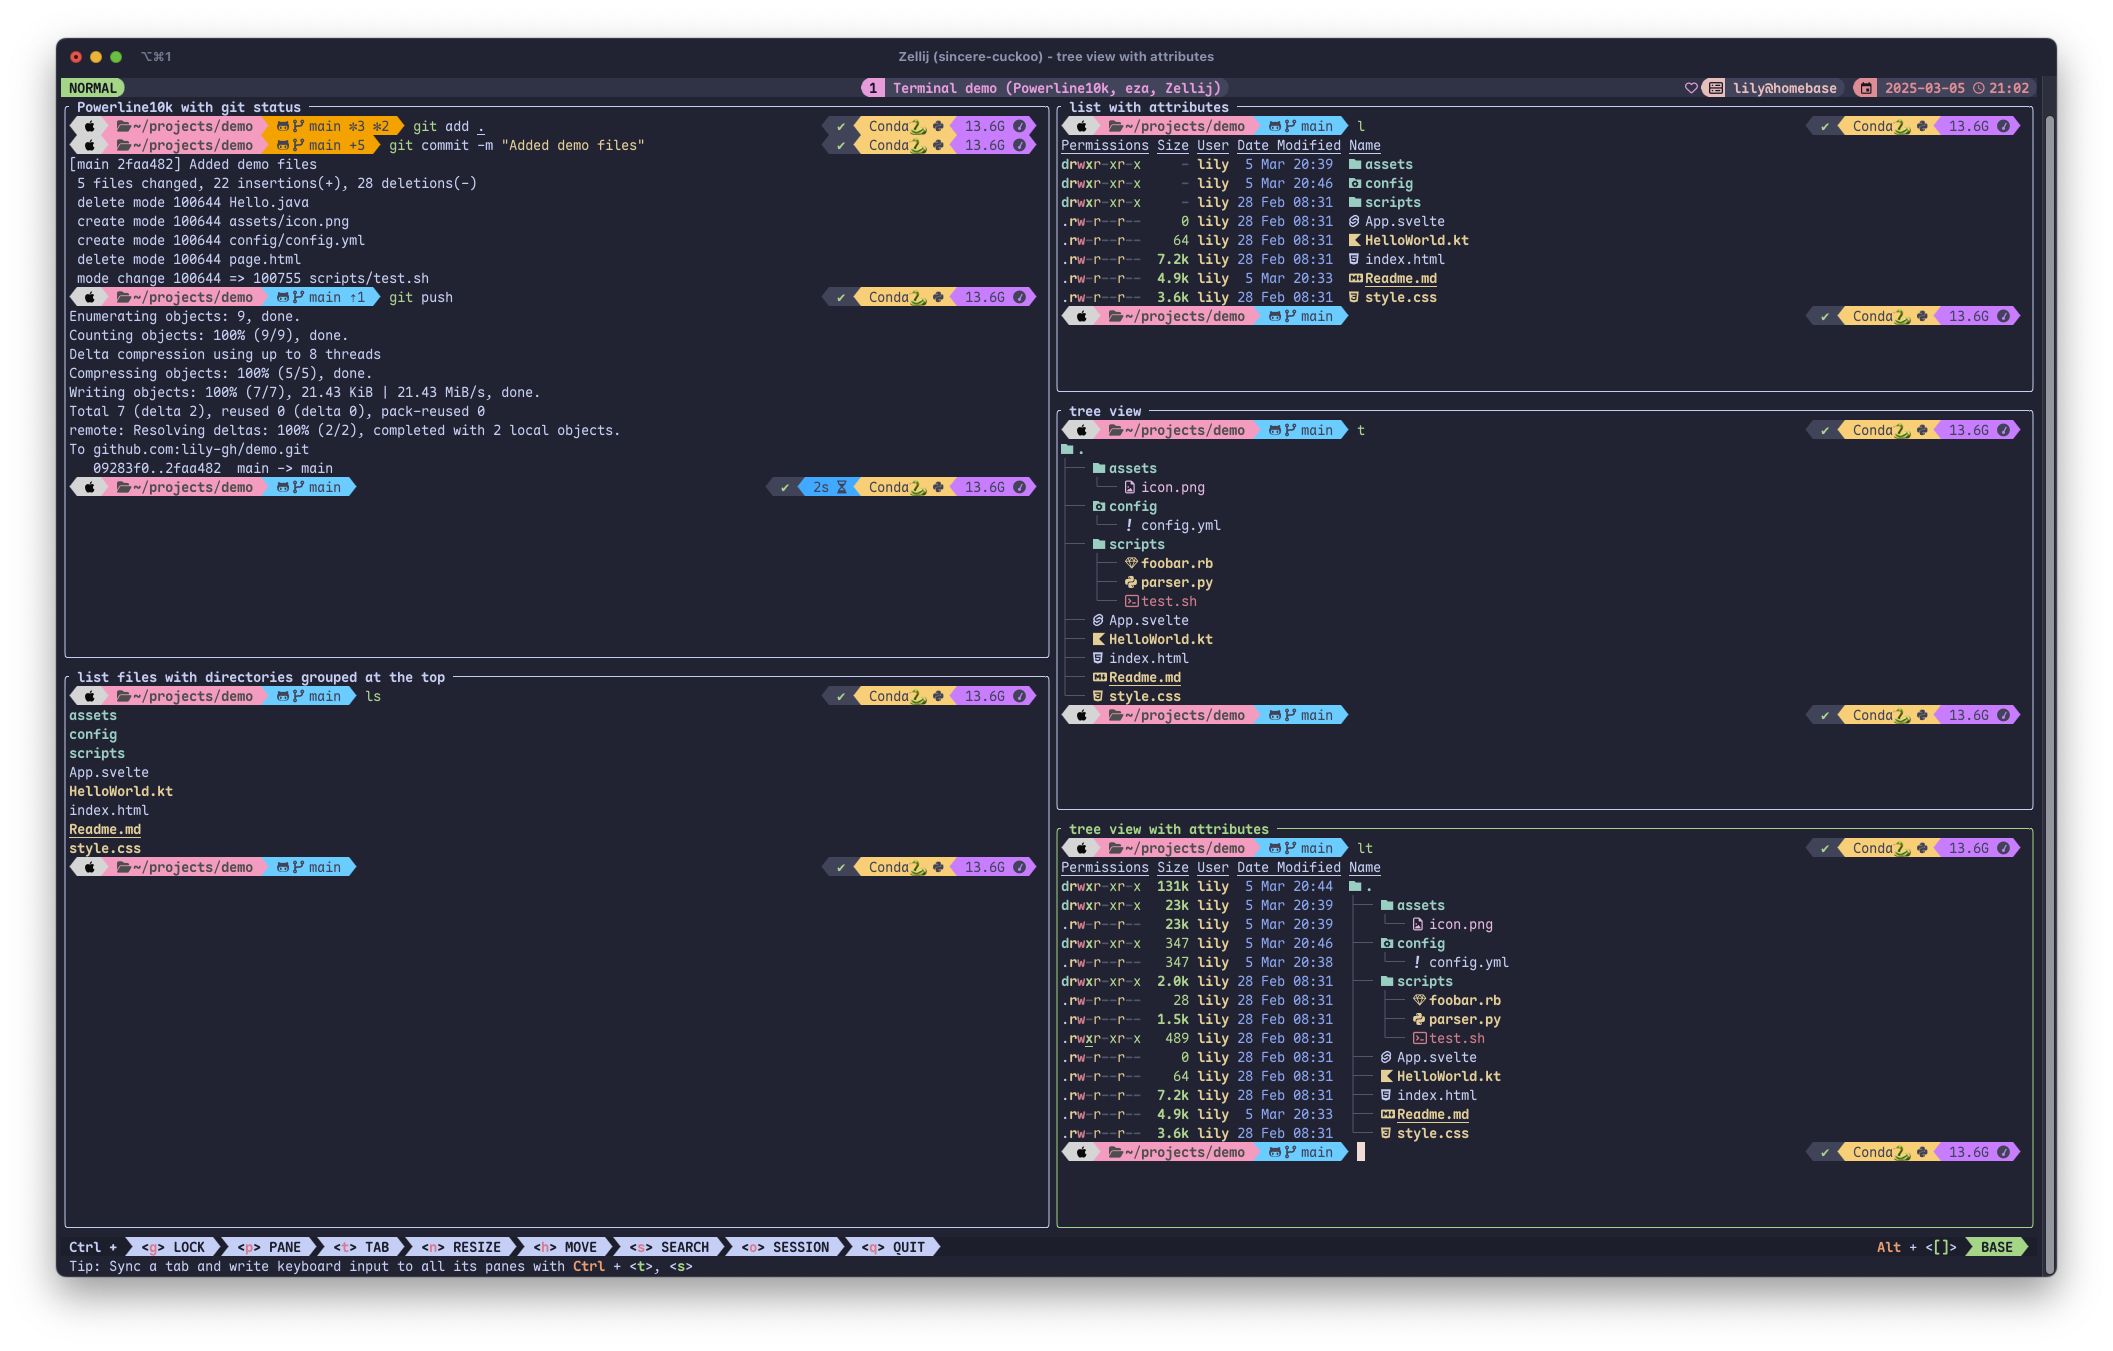
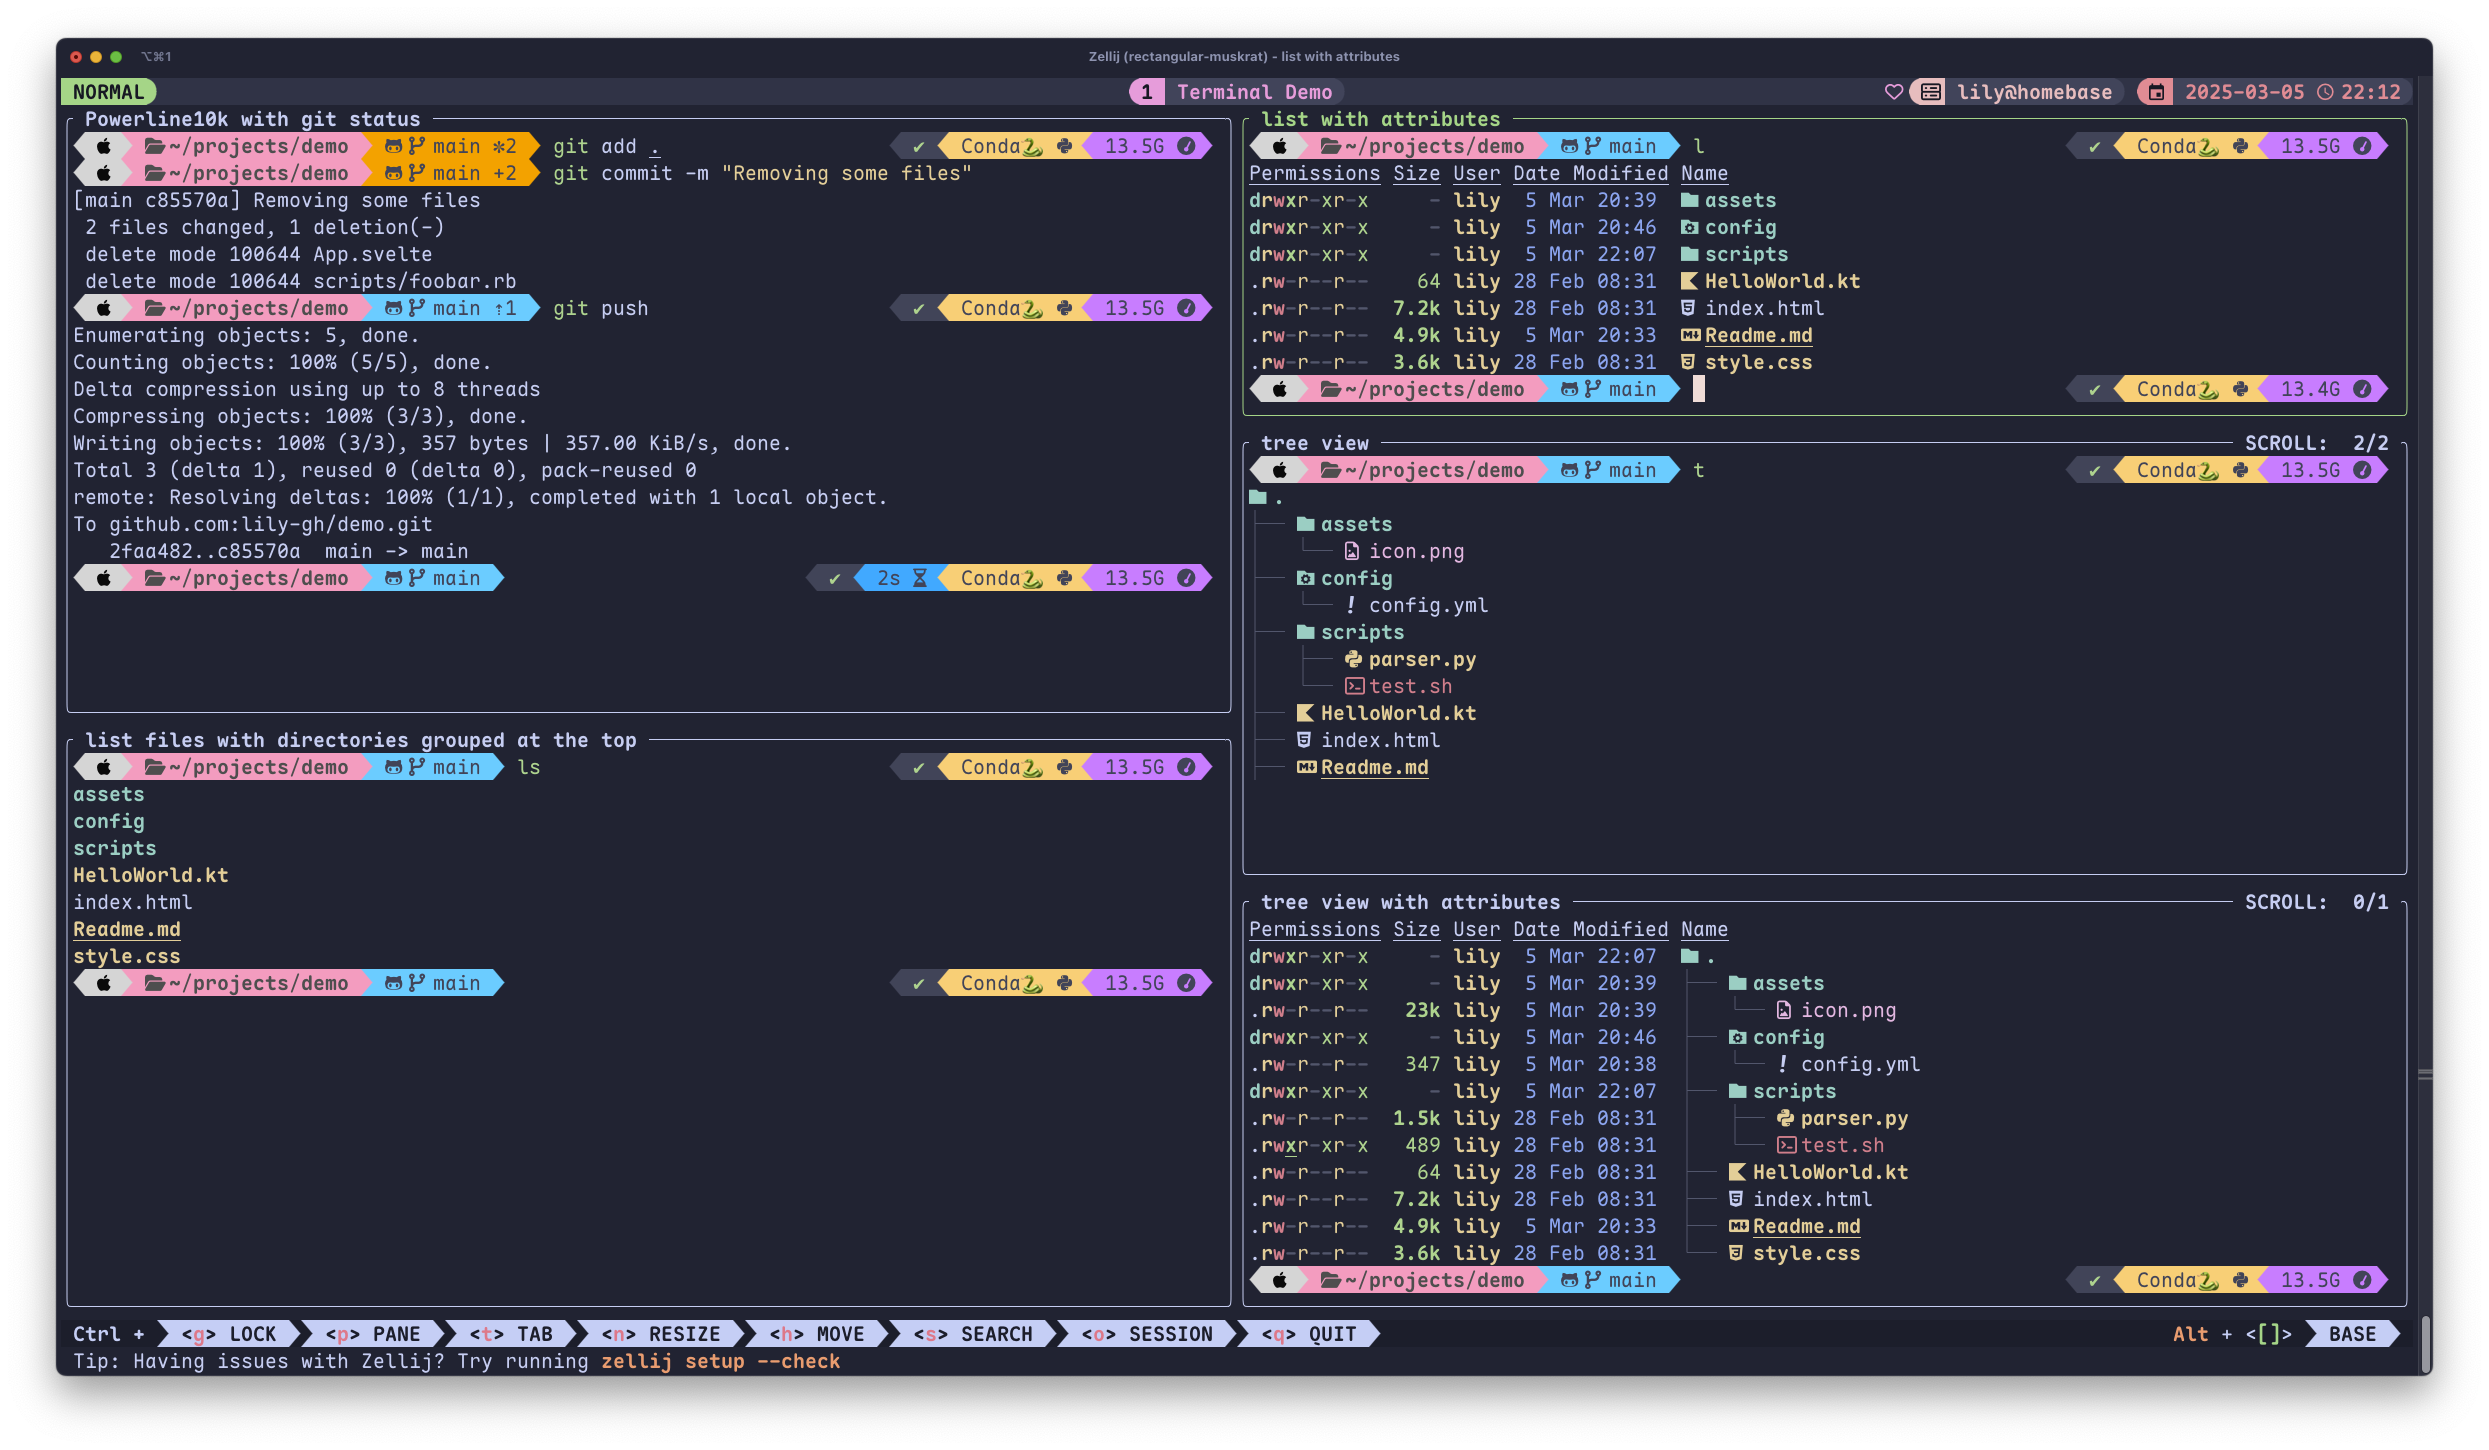
Updating README

Changed region(s): [[0.0, 0.0311, 0.9995, 0.9637]]

diff --git a/README.md b/README.md
@@ -33,8 +33,8 @@ if [ -x "$(command -v eza)" ]; then
     alias ll="eza --long --header --icons --group-directories-first --no-permissions --total-size"
     alias lp="eza --long --header --icons --group-directories-first --total-size"
     alias la="eza -a --long --header --icons --group-directories-first"
-    alias lt="eza --tree -a --long --header --icons --git-ignore --group-directories-first"
-    alias t="eza --tree -a --header --icons --git-ignore --group-directories-first"
+    alias lt="eza --tree --long --header --icons --git-ignore --group-directories-first"
+    alias t="eza --tree --header --icons --git-ignore --group-directories-first"
 fi
 ```
 
